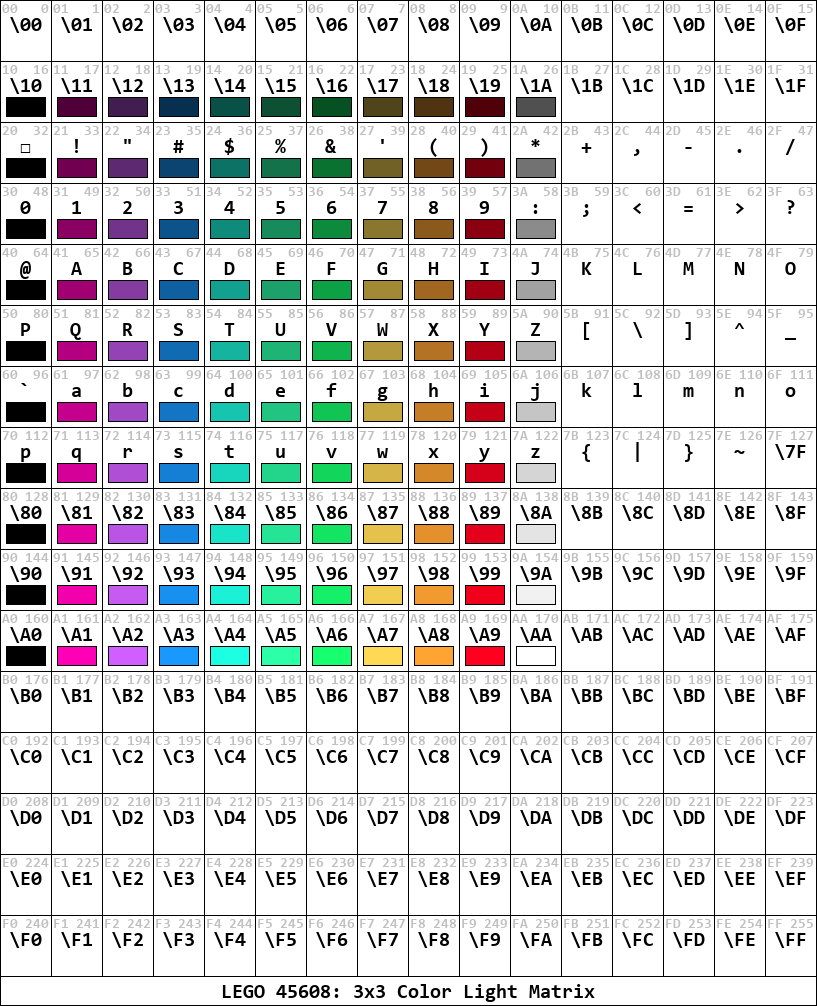
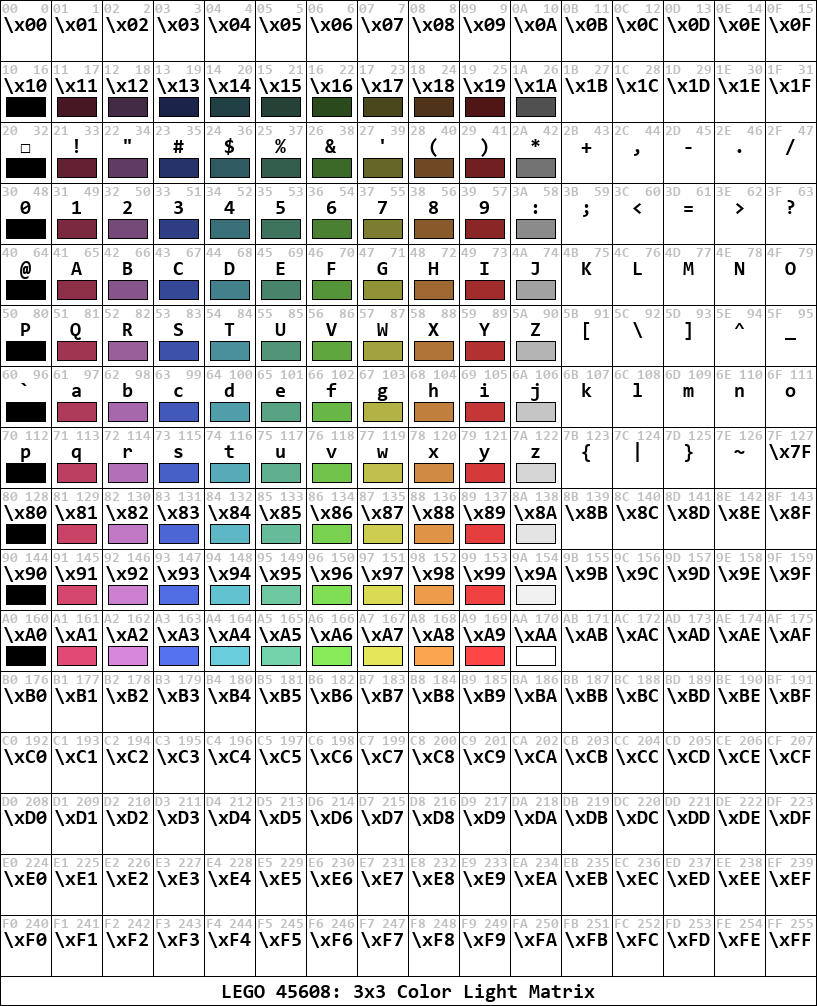
3x3 LED matrix color table

diff --git a/ms4/color-table/table.py b/ms4/color-table/table.py
@@ -2,8 +2,9 @@
 
 
 # table.py - Script creating a color table for a LEGO 3x3 color LED matrix
+# 2022 jan 28  v2  Maarten Pennings  Optical match of div_palette
 # 2022 jan 28  v1  Maarten Pennings  Created
-version = "v1"
+version = "v2"
 
 
 import os
@@ -42,36 +43,38 @@ def hex2(val) :
 
 # Convert integer ascii value to character (but makes some unprintable ones readable)
 def chrr(ascii) :
-  if   ascii <0x20 : return f"\{ascii:02X}";
+  if   ascii <0x20 : return f"\\x{ascii:02X}"
   elif ascii==0x20 : return "□"
-  elif ascii>=0x7F : return f"\{ascii:02X}";
+  elif ascii>=0x7F : return f"\\x{ascii:02X}"
   return chr(ascii)
 
 
 div_palette = [
- (0,0,0), #  0 black
- (215,0,154), #  1 magenta
- (163,74,198), #  2 violet
- (24,145,242), #  3 blue
- (21,180,160), #  4 turquoise
- (32,189,124), #  5 mint
- (15,168,73), #  6 green
- (249,212,84), #  7 yellow
- (253,162,51), #  8 orange
- (253,0,30), #  9 red
- (255,255,255), # 10 white
+ (  0,  0,  0), # (  0,  0,  0), #  0 black
+ (225, 75,115), # (215,  0,154), #  1 magenta
+ (215,135,220), # (163, 74,198), #  2 violet
+ ( 85,115,240), # ( 24,145,242), #  3 blue
+ (105,205,220), # ( 21,180,160), #  4 turquoise
+ (115,210,170), # ( 32,189,124), #  5 mint
+ (135,235, 90), # ( 15,168, 73), #  6 green
+ (230,230, 90), # (249,212, 84), #  7 yellow
+ (250,165, 80), # (253,162, 51), #  8 orange
+ (255, 70, 70), # (253,  0, 30), #  9 red
+ (255,255,255), # (255,255,255), # 10 white
 ]
 
-def palette_scaleup() :
-  palette = []
-  for r,g,b in div_palette :
-    m = max(r,g,b)
-    f = 255/m if m>0 else 1
-    n = ( int(r*f), int(g*f), int(b*f) )
-    palette.append(n) 
-  return palette
+#def palette_scaleup() :
+#  palette = []
+#  for r,g,b in div_palette :
+#    m = max(r,g,b)
+#    f = 255/m if m>0 else 1
+#    n = ( int(r*f), int(g*f), int(b*f) )
+#    palette.append(n) 
+#  return palette
+#
+#full_palette = palette_scaleup()
 
-full_palette = palette_scaleup()
+full_palette = div_palette
 
 def darken( color, percent ) :
   r,g,b = color

diff --git a/ms4/faq.md b/ms4/faq.md
@@ -305,7 +305,7 @@ The app version is in the title bar.
 The Hub has an OS, its version is shown in the Hub Connection window.
 For Python we use a script 
 
-```
+```python
 import sys
 print(sys.implementation)
 print(sys.version)
@@ -573,19 +573,7 @@ The screen is a bit small, but we can make a 2x5 font for digits that is sort-of
 I was inspired by [Anton's mindstorms hacks](https://antonsmindstorms.com/2021/02/08/how-to-display-two-digit-numbers-on-a-5x5-led-matrix-with-lego-spike-prime-or-robot-inventor/)
 but made it a bit simpler. See the Word Blocks [Example](blocks/Show99.lms).
 
-The python version is even simpler:
-
-```python
-font = [ "99999:99999", "90090:99999", "99909:90999", "90909:99999", "00990:99999", "90999:99909", "99999:99909", "99909:00099", "99099:99099", "90999:99999" ]
-def turn_on_digits(num) :
-    hub.light_matrix.show( font[num//10] + ":00000:" + font[num%10] )
-
-hub = MSHub()
-hub.speaker.beep()
-for ix in range(100) :
-    turn_on_digits(ix)
-    wait_for_seconds(0.2)
-```
+The python version is even simpler, see question below.
 
 
 ## What is degrees, position and relative position?
@@ -1066,6 +1054,20 @@ Finally, it would be nice if the `to_number()` would also accept numbers of the 
 
 
 
+
+
+
+
+
+
+
+
+
+
+
+
+
+
 ![next chapter](images/chapter-next.png)
 # Python specific questions
 
@@ -1155,6 +1157,44 @@ I hear you ask what images are. Well, images are objects created from the class 
 ![low level display control](images/display.jpg)
 
 
+## Can I show (hex) digits on the screen
+
+The screen is a bit small, but we can make a 2x5 font for digits that is sort-of readable 
+(especially the 0 and 8 are a bit hard to read).
+
+![Show99](images/show99.png)
+
+This version uses the high level `MSHub` module.
+The function `decdigits(num)` shows a number between 0 and 99 on the screen.
+
+```python
+font = [ "99999:99999", "90090:99999", "99909:90999", "90909:99999", "00990:99999", "90999:99909", "99999:99909", "99909:00099", "99099:99099", "90999:99999" ]
+def decdigits(num) :
+    hub.light_matrix.show( font[num//10] + ":00000:" + font[num%10] )
+
+hub = MSHub()
+hub.speaker.beep()
+for ix in range(100) :
+    decdigits(ix)
+    wait_for_seconds(0.2)
+```
+
+This version uses the low level `hub` module.
+The function `hexdigits(num)` shows a hexadecimal number between 0 and ff on the screen.
+
+
+```python
+import hub,time
+font = [ "99999:99999", "90090:99999", "99909:90999", "90909:99999", "00990:99999", "90999:99909", "99999:99909", "99909:00099", "99099:99099", "90999:99999" 
+       , "99909:99999", "99999:99900", "99999:90009", "99900:99999", "99999:90909", "99999:00909" ]
+def hexdigits(num) :
+    img = hub.Image( font[num//16] + ":00000:" + font[num%16] )
+    hub.display.show(img)
+hub.display.align(5)
+hexdigits(0xAf)
+```
+
+
 ## Can I use the 3x3 LED color matrix with Robot Inventor?
 
 ![Color matrix](images/Technic-3x3-Color-Light-Matrix-45608.png)
@@ -1202,15 +1242,7 @@ Notes
 
 This leads to the following "shortcut" table.
 
-   |brightness|   0   |   1   |   2  |  3  |    4    |  5  |  6  |   7  |   8  |  9  |  10 |
-   |----------|-------|-------|------|-----|---------|-----|-----|------|------|-----|-----|
-   |          |  off  |magenta|violet|blue |turquoise|mint |green|yellow|orange| red |white|
-   |       3  | `'0'` | `'1'` |`'2'` |`'3'`|  `'4'`  |`'5'`|`'6'`|`'7'` |`'8'` |`'9'`|`':'`|
-   |       4  | `'@'` | `'A'` |`'B'` |`'C'`|  `'D'`  |`'E'`|`'F'`|`'G'` |`'H'` |`'I'`|`'J'`|
-   |       5  | `'P'` | `'Q'` |`'R'` |`'S'`|  `'T'`  |`'U'`|`'V'`|`'W'` |`'X'` |`'Y'`|`'Z'`|
-   |       6  |``'`'``| `'a'` |`'b'` |`'c'`|  `'d'`  |`'e'`|`'f'`|`'g'` |`'h'` |`'i'`|`'j'`|
-   |       7  | `'p'` | `'q'` |`'r'` |`'s'`|  `'t'`  |`'u'`|`'v'`|`'w'` |`'x'` |`'y'`|`'z'`|
-
+![color codes](color-table/table.png)
 
 I learned that each device has a "mode".
 A mode is sort of a register that determines the state of the device.
@@ -1327,7 +1359,7 @@ We get a prompt from `MicroPython v1.11-1139-gf7407e5a0 on 2020-06-19; LEGO Tech
 
 A good start is the trusted `dir()` command.
 
-```text
+```python
 >>> dir()
 ['hub_runtime', 'gc', '__name__', 'micropython']
 ```
@@ -1341,7 +1373,7 @@ If you want to know what such an object offers, use `dir` again (`dir(hub_runtim
 Even better, this REPL offers command completion with the TAB key.
 For example, after type `hu`TAB, we get `hub_runtime`, if we then type `.`TAB we get
 
-```text
+```python
 >>> hub_runtime.
 __class__       __name__        start           __file__
 BT_VCP          Timer           USB_VCP         hub
@@ -1359,7 +1391,7 @@ After some searching, we can get the current yaw via a call to the `position`.
 We called twice, rotating the hub in between.
 First number looks like the yaw.
 
-```
+```python
 >>> hub_runtime.hub.motion.position()
 (25, -1, 0)
 >>> hub_runtime.hub.motion.position()
@@ -1369,7 +1401,7 @@ First number looks like the yaw.
 
 The `help()` command, as suggested when we pressed ^C, is _not_ very useful.
 
-```text
+```python
 >>> help()
 Welcome to MicroPython!
 
@@ -1396,7 +1428,7 @@ The `hub.info()` does not work: `name 'hub' isn't defined` (we already knew that
 The "Control commands" seem a bit advanced now - see [here](https://docs.micropython.org/en/latest/reference/repl.html) for some help.
 There is one good hint though: `help("modules")`.
 
-```text
+```python
 >>> help("modules")
 __main__          math              uerrno            urandom
 _onewire          micropython       uhashlib          ure
@@ -1410,7 +1442,7 @@ Plus any modules on the filesystem
 
 This lists the module `hub`! Let's try to import it, and give the status command.
 
-```text
+```python
 >>> import hub
 >>> hub.status()
 {'gyroscope': (2, 8, 3), 'position': (51, 0, 0), 'accelerometer': (15, -8, 1026)
@@ -1436,7 +1468,7 @@ But it also gave the hint `Plus any modules on the filesystem`.
 And we see there is a module `uos` for [basic "operating system" services](https://docs.micropython.org/en/latest/library/uos.html).
 This micro-OS includes a filesystem!
 
-```text
+```python
 >>> import uos
 >>> uos.listdir('/')
 ['projects', 'runtime', 'system', '_api', 'commands', 'event_loop', 'mindstorms'
@@ -1462,7 +1494,7 @@ But its presence is important: we have a directory `mindstorms` with a file `__i
 
 We even see the string `MSHub` in the `__init__.mpy`. Let's try to import and get the yaw.
 
-```text
+```python
 >>> from mindstorms import MSHub
 >>> h=MSHub()
 >>> h.motion_sensor.get_yaw_angle()
@@ -1516,7 +1548,7 @@ How do I get that on the hub?
 
 The whole session looks like this, but I have removed large chunks to keep the overview
 
-```text
+```python
 MicroPython v1.11-1139-gf7407e5a0 on 2020-06-19; LEGO Technic Large Hub with STM32F413xx
 Type "help()" for more information.
 >>>  
@@ -1705,7 +1737,7 @@ def do_count():
 
 This is a demo run.
 
-```text
+```python
 >>> do_count()
 0
 1
@@ -1879,7 +1911,7 @@ def infoA():
 
 When I connect the light sensor, this is the output of `infoA()`
 
-```text
+```python
 fw_version= 268435456
 modes[0]= {'symbol': 'IDX', 'format': {'datasets': 1, 'type': 0, 'figures': 2, 'decimals': 0}, 'capability': b'@\x00\x00\x00\x04\x84', 'map_out':  0, 'name': 'COLOR', 'pct': (0.0, 100.0), 'map_in': 228, 'si': (0.0,    10.0), 'raw': (0.0, 10.0)}
 modes[1]= {'symbol': 'PCT', 'format': {'datasets': 1, 'type': 0, 'figures': 3, 'decimals': 0}, 'capability': b'@\x00\x00\x00\x04\x84', 'map_out':  0, 'name': 'REFLT', 'pct': (0.0, 100.0), 'map_in':  48, 'si': (0.0,   100.0), 'raw': (0.0, 100.0)}
@@ -1899,7 +1931,7 @@ type= 61
 
 When I connect the distance sensor, this is the output
 
-```text
+```python
 fw_version= 268435456
 modes[0]= {'symbol': 'CM' , 'format': {'datasets': 1, 'type': 1, 'figures': 5, 'decimals': 1}, 'capability': b'@\x00\x00\x00\x04\x84', 'map_out':   0, 'name': 'DISTL', 'pct': (0.0, 100.0), 'map_in': 145, 'si': (0.0,   250.0), 'raw': (0.0, 2500.0)}
 modes[1]= {'symbol': 'CM' , 'format': {'datasets': 1, 'type': 1, 'figures': 4, 'decimals': 1}, 'capability': b'@\x00\x00\x00\x04\x84', 'map_out':   0, 'name': 'DISTS', 'pct': (0.0, 100.0), 'map_in': 241, 'si': (0.0,    32.0), 'raw': (0.0, 320.0)}
@@ -1919,7 +1951,7 @@ type= 62
 
 When I connect the touch (force) sensor, this is the output
 
-```text
+```python
 fw_version= 268435456
 modes[0]= {'symbol': 'N'  , 'format': {'datasets': 1, 'type': 0, 'figures': 4, 'decimals': 1}, 'capability': b'\x00\x00\x00\x00\x04\x84', 'map_out': 0, 'name': 'FORCE', 'pct': (0.0, 100.0), 'map_in': 112, 'si': (0.0,   10.0), 'raw': (0.0, 100.0)}
 modes[1]= {'symbol': 'ST' , 'format': {'datasets': 1, 'type': 0, 'figures': 1, 'decimals': 0}, 'capability': b'\x00\x00\x00\x00\x04\x84', 'map_out': 0, 'name': 'TOUCH', 'pct': (0.0, 100.0), 'map_in':   4, 'si': (0.0,    1.0), 'raw': (0.0, 1.0)}
@@ -1936,7 +1968,7 @@ type= 63
 
 When I connect the 3x3 LED matrix (bought separately), this is the output
 
-```text
+```python
 combi_modes= ()
 fw_version= 285212672
 speed= 115200
@@ -1952,7 +1984,7 @@ hw_version= 4
 
 When I connect a (small) motor, this is the output
 
-```text
+```python
 fw_version= 4096
 modes[0]= {'symbol': 'PCT'         , 'format': {'datasets': 1, 'type': 0, 'figures': 1, 'decimals': 0},   'capability': b'\x10\x00\x00\x00\x01\x04', 'map_out': 16, 'name': 'POWER', 'pct': (-100.0, 100.0)       , 'map_in': 0, 'si': (-100.0, 100.0)   , 'raw': (-100.0, 100.0)}
 modes[1]= {'symbol': 'PCT'         , 'format': {'datasets': 1, 'type': 0, 'figures': 4, 'decimals': 0},   'capability': b'!\x00\x00\x00\x01\x04'   , 'map_out': 16, 'name': 'SPEED', 'pct': (-100.0, 100.0)       , 'map_in':16, 'si': (-100.0, 100.0)  , 'raw': (-100.0, 100.0)}
@@ -2031,7 +2063,7 @@ Notes
    In the question "Which files are in the Python filesystem?" you'll find an `ls()` command, which works in REPL.
    If you run that, we get the following file list (abridged). At the end we find our `data.log`.
    
-   ```text
+   ```python
    >>> ls()
    projects/
    ...
@@ -2046,7 +2078,7 @@ Notes
    In the question "Which files are in the Python filesystem?" you'll find a `cat()` command, which works in REPL.
    If you run that, we get the following content.
    
-   ```text
+   ```python
    >>> cat('data.log')
    '0 1\n1 12\n2 7\n3 7\n4 5\n5 4\n6 6\n7 5\n8 4\n9 4\n'
    ```

diff --git a/README.md b/README.md
@@ -9,7 +9,7 @@ See the subdirectories for details on each of the generations.
 - [RCX](rcx)
 - [NXT](nxt)
 - [EV3](ev3)
-- [MS4](ms4) "Robot Inventor"
+- [MS4](ms4) ("Mindstorms gen 4", but the world seems to settle on RI5 "Robot Inventor gen 5")
 
 ## Background
 
